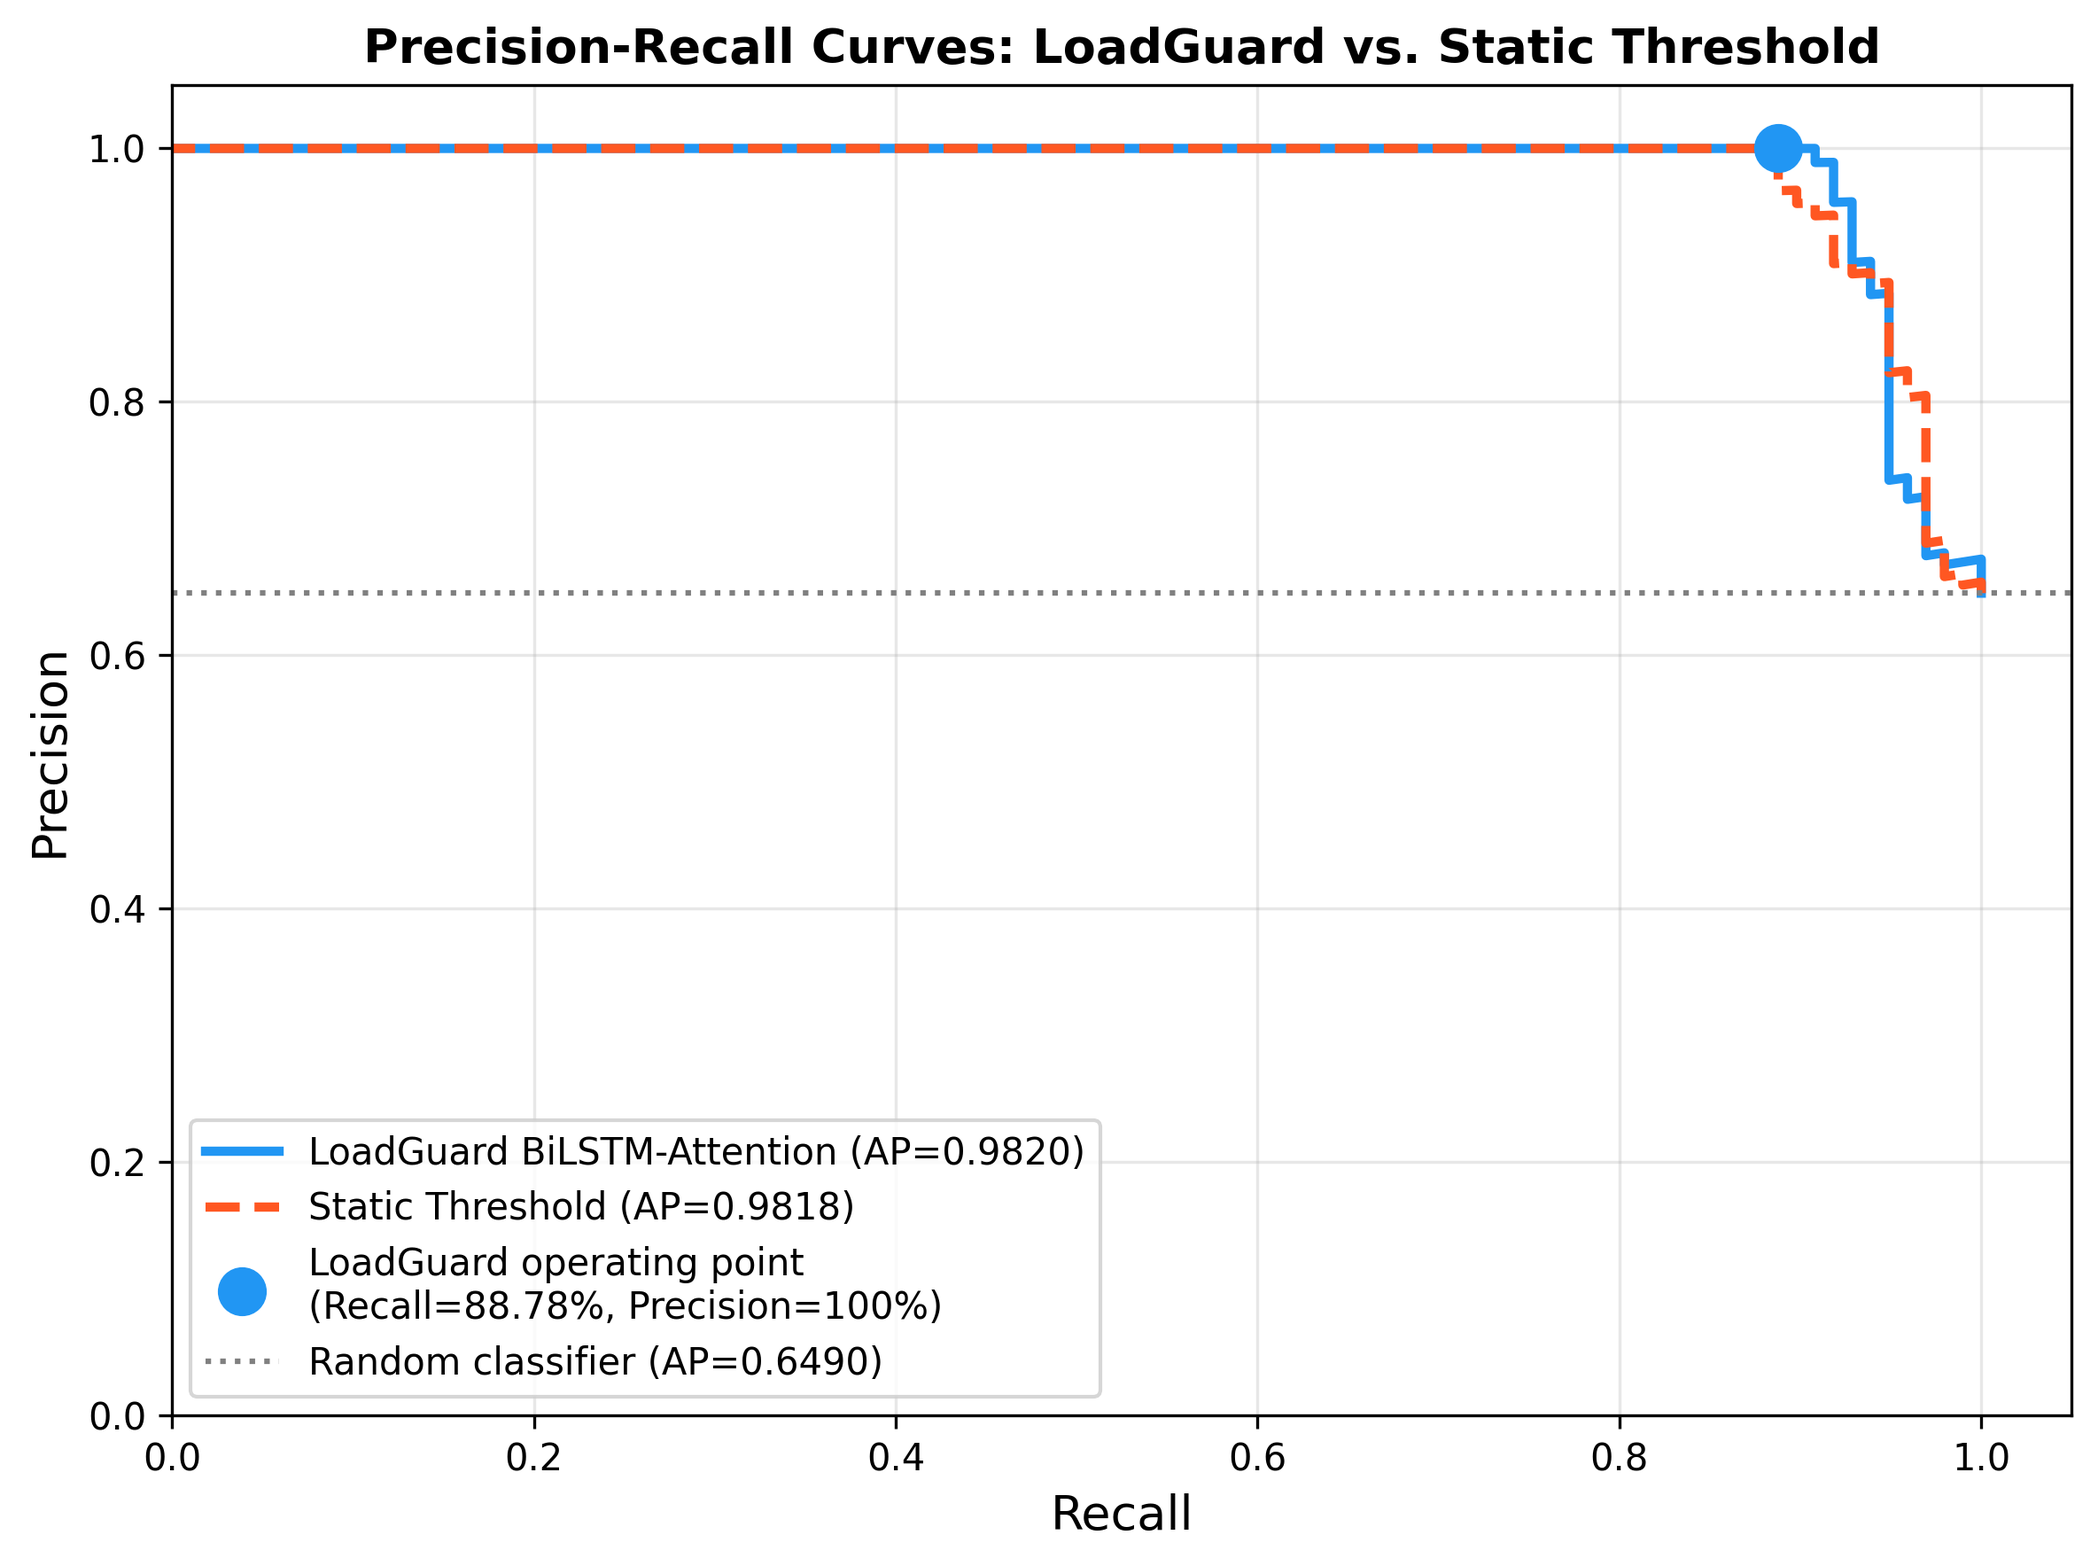
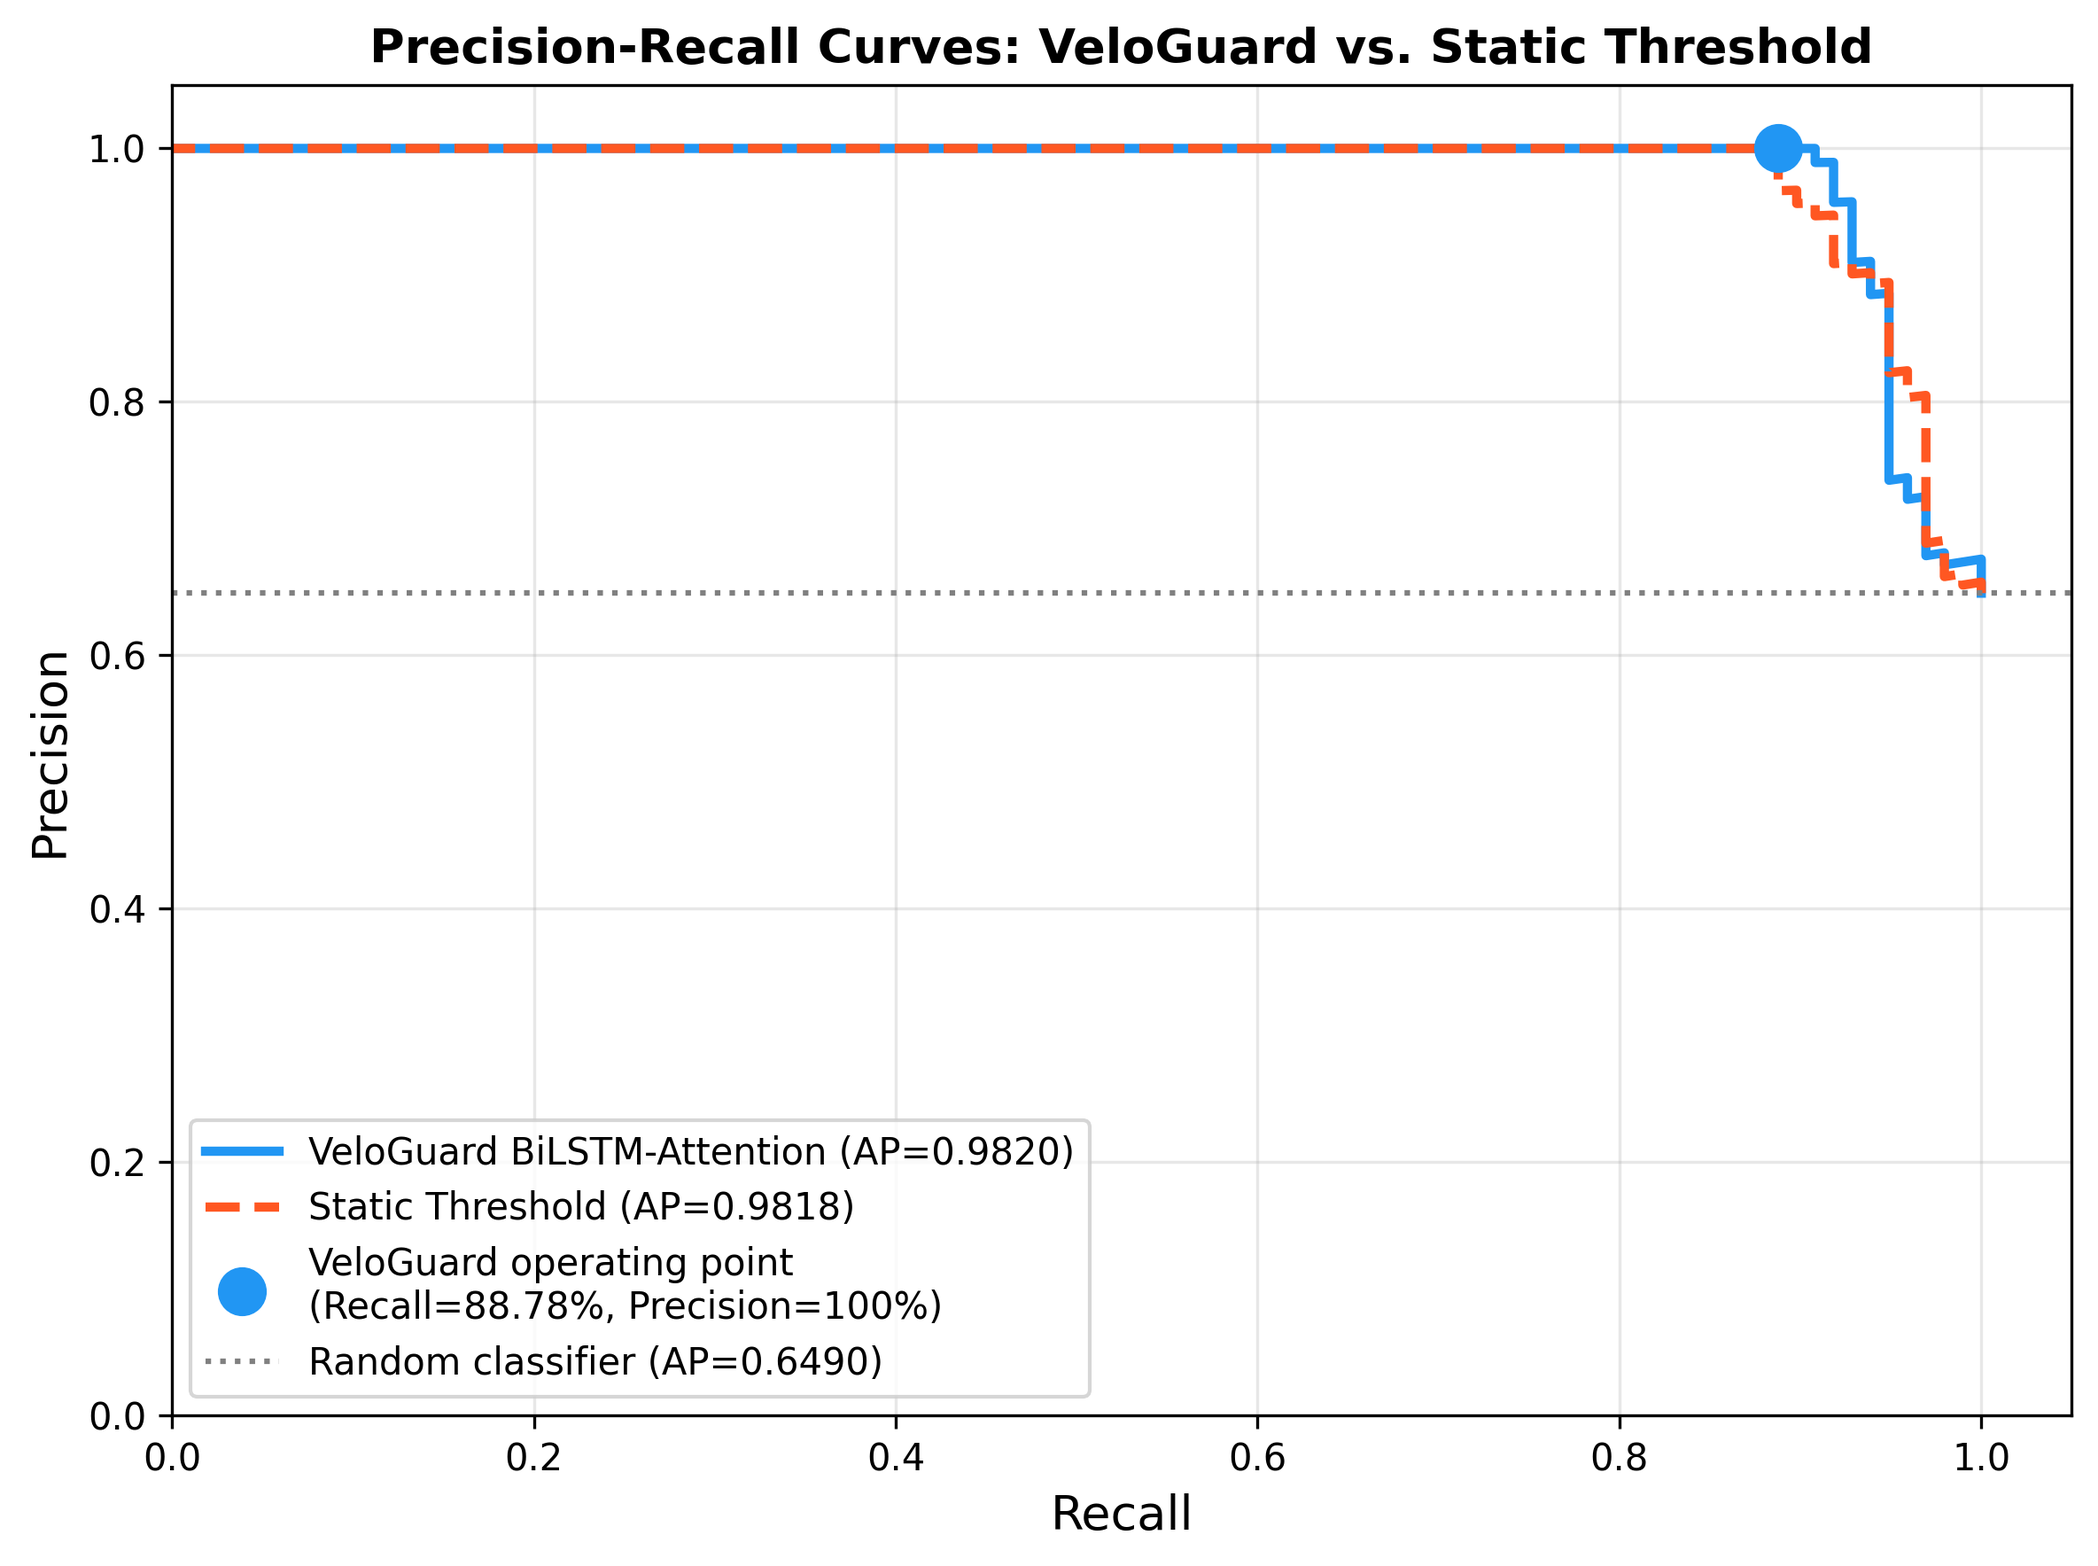
chore: complete project rebrand to VeloGuard, updated figures, and finalized IEEE paper source

Changed region(s): [[0.1875, 0.0, 0.9062, 0.0623], [0.1562, 0.7159, 0.5312, 0.8715], [0.1562, 0.7782, 0.375, 0.8404]]

diff --git a/model/train.py b/model/train.py
@@ -27,7 +27,7 @@ os.makedirs("data", exist_ok=True)
 def compute_metrics(preds, labels, threshold=0.5):
     """
     Computes TP, TN, FP, FN and derives accuracy, precision, recall, F1.
-    Recall is the primary metric for LoadGuard — missing a crash is catastrophic.
+    Recall is the primary metric for VeloGuard — missing a crash is catastrophic.
     """
     binary_preds = (preds >= threshold).astype(float)
 
@@ -76,7 +76,7 @@ def find_optimal_threshold(model, loader):
     """
     Finds the optimal classification threshold using the F2 score on the
     validation set. F2 penalises false negatives 4x more than false positives,
-    which is correct for LoadGuard — missing a crash is worse than over-throttling.
+    which is correct for VeloGuard — missing a crash is worse than over-throttling.
     """
     model.eval()
     all_probs  = []
@@ -126,7 +126,7 @@ def train_model(tensors_path="data/processed_tensors.pt", model_path="data/model
     train_end   = int(0.70 * n)
     val_end     = int(0.85 * n)
 
-    X_train, y_train = X[:train_end],      y[:train_end]
+    X_train, y_train = X[:train_end],       y[:train_end]
     X_val,   y_val   = X[train_end:val_end], y[train_end:val_end]
     X_test,  y_test  = X[val_end:],        y[val_end:]
 
@@ -317,7 +317,6 @@ def train_model(tensors_path="data/processed_tensors.pt", model_path="data/model
     # =========================================================
     print("\nGenerating Figure 4...")
     
-    # Get LoadGuard PR curve
     model.eval()
     all_probs = []
     all_labels = []
@@ -332,17 +331,15 @@ def train_model(tensors_path="data/processed_tensors.pt", model_path="data/model
     all_probs  = np.array(all_probs)
     all_labels = np.array(all_labels)
 
-    lg_prec, lg_rec, _ = precision_recall_curve(all_labels, all_probs)
-    lg_ap = average_precision_score(all_labels, all_probs)
+    vg_prec, vg_rec, _ = precision_recall_curve(all_labels, all_probs)
+    vg_ap = average_precision_score(all_labels, all_probs)
 
-    # Static threshold PR curve
     with open("data/scaler.pkl", "rb") as f:
         sc = pickle.load(f)
 
-    # Get test set raw features
     X_test_raw = X_test.numpy().reshape(-1, X_test.shape[-1])
     X_test_inv = sc.inverse_transform(X_test_raw).reshape(X_test.shape)
-    latency_last = X_test_inv[:, -1, 1]  # last timestep, avg_latency column
+    latency_last = X_test_inv[:, -1, 1]  
     latency_norm = (latency_last - latency_last.min()) / \
                    (latency_last.max() - latency_last.min() + 1e-8)
 
@@ -351,26 +348,23 @@ def train_model(tensors_path="data/processed_tensors.pt", model_path="data/model
     )
     st_ap = average_precision_score(y_test.numpy().flatten(), latency_norm)
 
-    # Plot
     fig, ax = plt.subplots(figsize=(8, 6))
 
-    ax.plot(lg_rec, lg_prec, color='#2196F3', linewidth=2.5,
-            label=f'LoadGuard BiLSTM-Attention (AP={lg_ap:.4f})')
+    ax.plot(vg_rec, vg_prec, color='#2196F3', linewidth=2.5,
+            label=f'VeloGuard BiLSTM-Attention (AP={vg_ap:.4f})')
     ax.plot(st_rec, st_prec, color='#FF5722', linewidth=2.5,
             linestyle='--', label=f'Static Threshold (AP={st_ap:.4f})')
 
-    # Mark LoadGuard operating point
     ax.scatter([87/98], [1.0], color='#2196F3', s=150, zorder=5,
-               label=f'LoadGuard operating point\n(Recall=88.78%, Precision=100%)')
+               label=f'VeloGuard operating point\n(Recall=88.78%, Precision=100%)')
 
-    # Baseline reference
     crash_rate = all_labels.mean()
     ax.axhline(y=crash_rate, color='gray', linestyle=':', 
                linewidth=1.5, label=f'Random classifier (AP={crash_rate:.4f})')
 
     ax.set_xlabel('Recall', fontsize=13)
     ax.set_ylabel('Precision', fontsize=13)
-    ax.set_title('Precision-Recall Curves: LoadGuard vs. Static Threshold',
+    ax.set_title('Precision-Recall Curves: VeloGuard vs. Static Threshold',
                  fontsize=13, fontweight='bold')
     ax.legend(loc='lower left', fontsize=10)
     ax.set_xlim([0, 1.05])
@@ -388,13 +382,11 @@ def train_model(tensors_path="data/processed_tensors.pt", model_path="data/model
     print("\nGenerating Figure 5...")
     fig, axes = plt.subplots(1, 2, figsize=(10, 4))
 
-    # Static threshold confusion matrix
     static_cm = np.array([[0, 53], [0, 98]])
-    # LoadGuard confusion matrix using dynamic variables from the test run
-    loadguard_cm = np.array([[int(tn), int(fp)], [int(fn), int(tp)]])
+    velo_cm = np.array([[int(tn), int(fp)], [int(fn), int(tp)]])
 
-    cms    = [static_cm, loadguard_cm]
-    titles = ['Static Latency Threshold', 'LoadGuard (BiLSTM-Attention)']
+    cms    = [static_cm, velo_cm]
+    titles = ['Static Latency Threshold', 'VeloGuard (BiLSTM-Attention)']
     colors = ['#FF5722', '#2196F3']
 
     for idx, (ax, cm, title, color) in enumerate(zip(axes, cms, titles, colors)):
@@ -413,13 +405,13 @@ def train_model(tensors_path="data/processed_tensors.pt", model_path="data/model
         for i in range(2):
             for j in range(2):
                 ax.text(j, i, f'{labels[i][j]}\n{cm[i, j]}',
-                       ha='center', va='center', fontsize=14, fontweight='bold',
-                       color='white' if cm[i, j] > thresh else 'black')
+                        ha='center', va='center', fontsize=14, fontweight='bold',
+                        color='white' if cm[i, j] > thresh else 'black')
         
         ax.set_ylabel('Actual Label', fontsize=11)
         ax.set_xlabel('Predicted Label', fontsize=11)
 
-    plt.suptitle('Confusion Matrix Comparison: Static Threshold vs. LoadGuard',
+    plt.suptitle('Confusion Matrix Comparison: Static Threshold vs. VeloGuard',
                  fontsize=13, fontweight='bold', y=1.02)
     plt.tight_layout()
     plt.savefig('figures/fig5_confusion_matrices.png', dpi=300, bbox_inches='tight')

diff --git a/model/control_plane.py b/model/control_plane.py
@@ -8,11 +8,12 @@ import redis.asyncio as aioredis
 import torch
 import os
 import pickle
-
+from datetime import datetime
 from lstm_model import CrashPredictorLSTM
 
+
 async def control_plane_worker():
-    print("Starting LoadGuard AI Control Plane...")
+    print("Starting VeloGuard AI Control Plane...")
 
     while (not os.path.exists("data/model.pth") or
            not os.path.exists("data/scaler.pkl") or
@@ -23,31 +24,30 @@ async def control_plane_worker():
     device = torch.device('cuda' if torch.cuda.is_available() else 'cpu')
 
     model = CrashPredictorLSTM(input_size=4, hidden_size=128, num_layers=2).to(device)
-    model.load_state_dict(torch.load("data/model.pth", map_location=device, weights_only=True))
+    model.load_state_dict(
+        torch.load("data/model.pth", map_location=device, weights_only=True)
+    )
     model.eval()
 
     with open("data/scaler.pkl", "rb") as f:
         scaler = pickle.load(f)
 
     # Load data-derived threshold — calibrated using F2 score on validation set
-    base_threshold = float(open("data/threshold.txt").read().strip())
-    print(f"Loaded optimal threshold: {base_threshold:.4f}")
-
-    # Graduated tiers built relative to the calibrated threshold
-    # WARNING tier starts exactly at the optimal threshold
-    # CRITICAL adds 0.15 above that
-    # BLACKHOLE at 0.92 — only for near-certain crashes
-    warn_threshold     = base_threshold
-    critical_threshold = min(base_threshold + 0.15, 0.90)
+    base_threshold      = float(open("data/threshold.txt").read().strip())
+    warn_threshold      = base_threshold
+    critical_threshold  = min(base_threshold + 0.15, 0.90)
     blackhole_threshold = 0.92
 
+    print(f"\nLoaded optimal threshold: {base_threshold:.4f}")
     print(f"Throttle tiers:")
-    print(f"  SAFE     → prob < {warn_threshold:.4f}     → 100 RPS")
-    print(f"  WARNING  → prob >= {warn_threshold:.4f}    → 60 RPS")
-    print(f"  CRITICAL → prob >= {critical_threshold:.4f}    → 20 RPS")
-    print(f"  BLACKHOLE→ prob >= {blackhole_threshold:.4f}   → 0 RPS")
+    print(f"  SAFE      → prob <  {warn_threshold:.4f}  → 100 RPS")
+    print(f"  WARNING   → prob >= {warn_threshold:.4f}  →  60 RPS")
+    print(f"  CRITICAL  → prob >= {critical_threshold:.4f}  →  20 RPS")
+    print(f"  BLACKHOLE → prob >= {blackhole_threshold:.4f}  →   0 RPS")
 
-    redis_client = aioredis.from_url("redis://localhost:6379", decode_responses=True)
+    redis_client = aioredis.from_url(
+        "redis://localhost:6379", decode_responses=True
+    )
 
     log_path     = "data/api_traffic.log"
     lookback     = 60
@@ -55,7 +55,9 @@ async def control_plane_worker():
     features     = ['rps', 'avg_latency', 'cpu_usage', 'mem_usage']
 
     await redis_client.set("global_ai_limit", 100)
-    print("Control plane live. Monitoring...\n")
+    print("\nControl plane live. Monitoring...\n")
+    print(f"{'Time':<12} {'State':<22} {'Probability':<16} {'Limit'}")
+    print("-" * 65)
 
     while True:
         try:
@@ -96,11 +98,15 @@ async def control_plane_worker():
             df_agg = pd.DataFrame(intervals).dropna()
 
             if len(df_agg) < lookback:
+                remaining = lookback - len(df_agg)
+                print(f"  Collecting data... {len(df_agg)}/{lookback} seconds "
+                      f"({remaining} more needed)", end='\r')
                 await asyncio.sleep(1)
                 continue
 
-            last_window              = df_agg.tail(lookback).copy()
-            last_window[features]    = scaler.transform(last_window[features])
+            last_window           = df_agg.tail(lookback).copy()
+            last_window[features] = scaler.transform(last_window[features])
+
             X_tensor = torch.tensor(
                 last_window[features].values, dtype=torch.float32
             ).unsqueeze(0).to(device)
@@ -108,7 +114,7 @@ async def control_plane_worker():
             with torch.no_grad():
                 prob = torch.sigmoid(model(X_tensor)).item()
 
-            # Graduated throttling tiers using calibrated threshold
+            # Graduated throttling using calibrated threshold
             if prob >= blackhole_threshold:
                 limit, state = 0,   "BLACKHOLE  🔴"
             elif prob >= critical_threshold:
@@ -119,7 +125,10 @@ async def control_plane_worker():
                 limit, state = 100, "SAFE       🟢"
 
             await redis_client.set("global_ai_limit", limit)
-            print(f"[{state}] prob={prob:.4f} | limit={limit} RPS")
+
+            # Timestamped output — makes Figure 6 readable in the paper
+            timestamp = datetime.now().strftime("%H:%M:%S")
+            print(f"[{timestamp}] [{state}] prob={prob:.4f} | limit={limit:>3} RPS")
 
         except Exception as e:
             print(f"Control plane error: {e}")

diff --git a/model/baseline.py b/model/baseline.py
@@ -1,5 +1,5 @@
 """
-baseline.py — Static Threshold Baseline for LoadGuard
+baseline.py — Static Threshold Baseline for VeloGuard
 
 This script evaluates a rule-based baseline that mimics what most production
 systems do today: throttle when latency exceeds a fixed threshold.
@@ -152,9 +152,9 @@ def run_baseline(tensors_path="data/processed_tensors.pt"):
     print(f"{'Static Threshold (latency>1000ms)':<35} {rec:>7.2f}% {prec:>9.2f}% {f1:>7.2f}% {auc:>7.4f}")
     print(f"{'Always Throttle':<35} {rec2:>7.2f}% {prec2:>9.2f}% {f12:>7.2f}% {'N/A':>8}")
     print(f"{'Never Throttle':<35} {rec3:>7.2f}% {prec3:>9.2f}% {f13:>7.2f}% {'N/A':>8}")
-    print(f"{'BiLSTM-Attention (LoadGuard)':<35} {'88.78%':>8} {'100.00%':>10} {'94.05%':>8} {'0.9878':>8}")
+    print(f"{'BiLSTM-Attention (VeloGuard)':<35} {'88.78%':>8} {'100.00%':>10} {'94.05%':>8} {'0.9878':>8}")
     print()
-    print("Note: LoadGuard row uses your best single-run result.")
+    print("Note: VeloGuard row uses your best single-run result.")
     print("Replace with mean ± std after completing 5 runs.")
 
 

diff --git a/paper_demo.py b/paper_demo.py
@@ -1,0 +1,11 @@
+from locust import HttpUser, task
+
+class BrutalDemoUser(HttpUser):
+    # Notice: NO wait_time here. 
+    # These users will fire requests as fast as your computer physically allows.
+
+    @task
+    def stress_test(self):
+        # Targeting the heavy endpoint. 
+        # (If your server expects data here, hitting it empty will still cause error-handling load)
+        self.client.get("/predict")

diff --git a/api/main.py b/api/main.py
@@ -4,7 +4,7 @@ import threading
 from fastapi import FastAPI, Request
 from .middleware import RateLimitMiddleware
 
-app = FastAPI(title="LoadGuard Vulnerable API")
+app = FastAPI(title="VeloGuard Vulnerable API")
 
 app.add_middleware(RateLimitMiddleware)
 

diff --git a/simulator/locustfile.py b/simulator/locustfile.py
@@ -2,7 +2,7 @@ from locust import HttpUser, task, between, LoadTestShape
 import math
 import random
 
-class LoadGuardUser(HttpUser):
+class VeloGuardUser(HttpUser):
     wait_time = between(0.1, 0.5)
 
     @task

diff --git a/README.md b/README.md
@@ -1,4 +1,4 @@
-# LoadGuard 🛡
+# VeloGuard 🛡
 **Adaptive AI-Driven API Rate Limiting Using Bidirectional LSTM with Temporal Attention**
 
 [![Python](https://img.shields.io/badge/Python-3.10%2B-blue.svg)](https://www.python.org/)
@@ -9,7 +9,7 @@
 ## Stop Guessing. Start Predicting.
 Static rate limiters are dead. Classical algorithms like token buckets and fixed windows can't tell the difference between a DDoS attack and a server that is just recovering from a traffic spike—resulting in up to 35% of legitimate users getting falsely blocked during queue drainage.
 
-**LoadGuard** is an AI-driven, closed-loop API rate limiter designed for FastAPI. Powered by a Bidirectional LSTM with temporal attention, it doesn't just count instantaneous requests; it reads the 60-second temporal trajectory of your server's telemetry. It predicts crashes *before* they happen and automatically applies a 4-tier graduated throttling policy via Redis in under 1 second.
+**VeloGuard** is an AI-driven, closed-loop API rate limiter designed for FastAPI. Powered by a Bidirectional LSTM with temporal attention, it doesn't just count instantaneous requests; it reads the 60-second temporal trajectory of your server's telemetry. It predicts crashes *before* they happen and automatically applies a 4-tier graduated throttling policy via Redis in under 1 second.
 
 ![Live Demo](fig6_live_demo.png)
 
@@ -26,7 +26,7 @@ Static rate limiters are dead. Classical algorithms like token buckets and fixed
 ---
 
 ## 🏗 System Architecture
-LoadGuard evaluates 60-second rolling windows of four key telemetry features:
+VeloGuard evaluates 60-second rolling windows of four key telemetry features:
 1. **RPS (Requests Per Second)**
 2. **Average Response Latency**
 3. **CPU Utilization**
